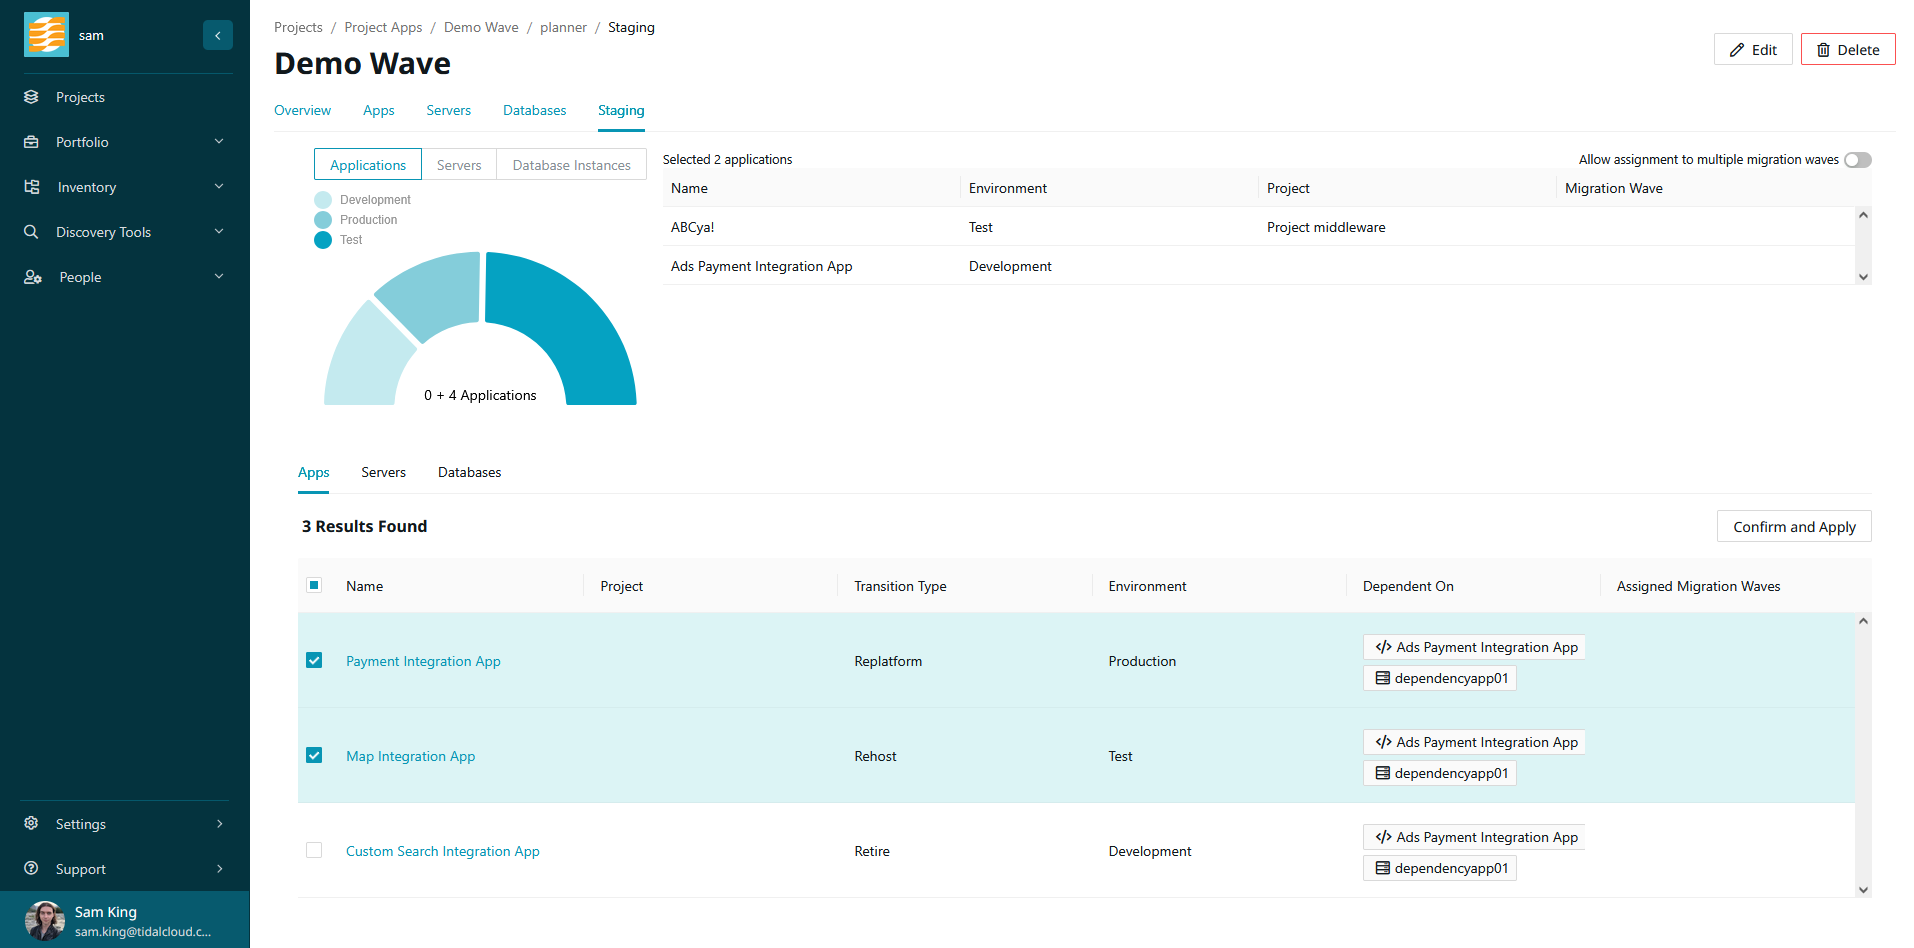
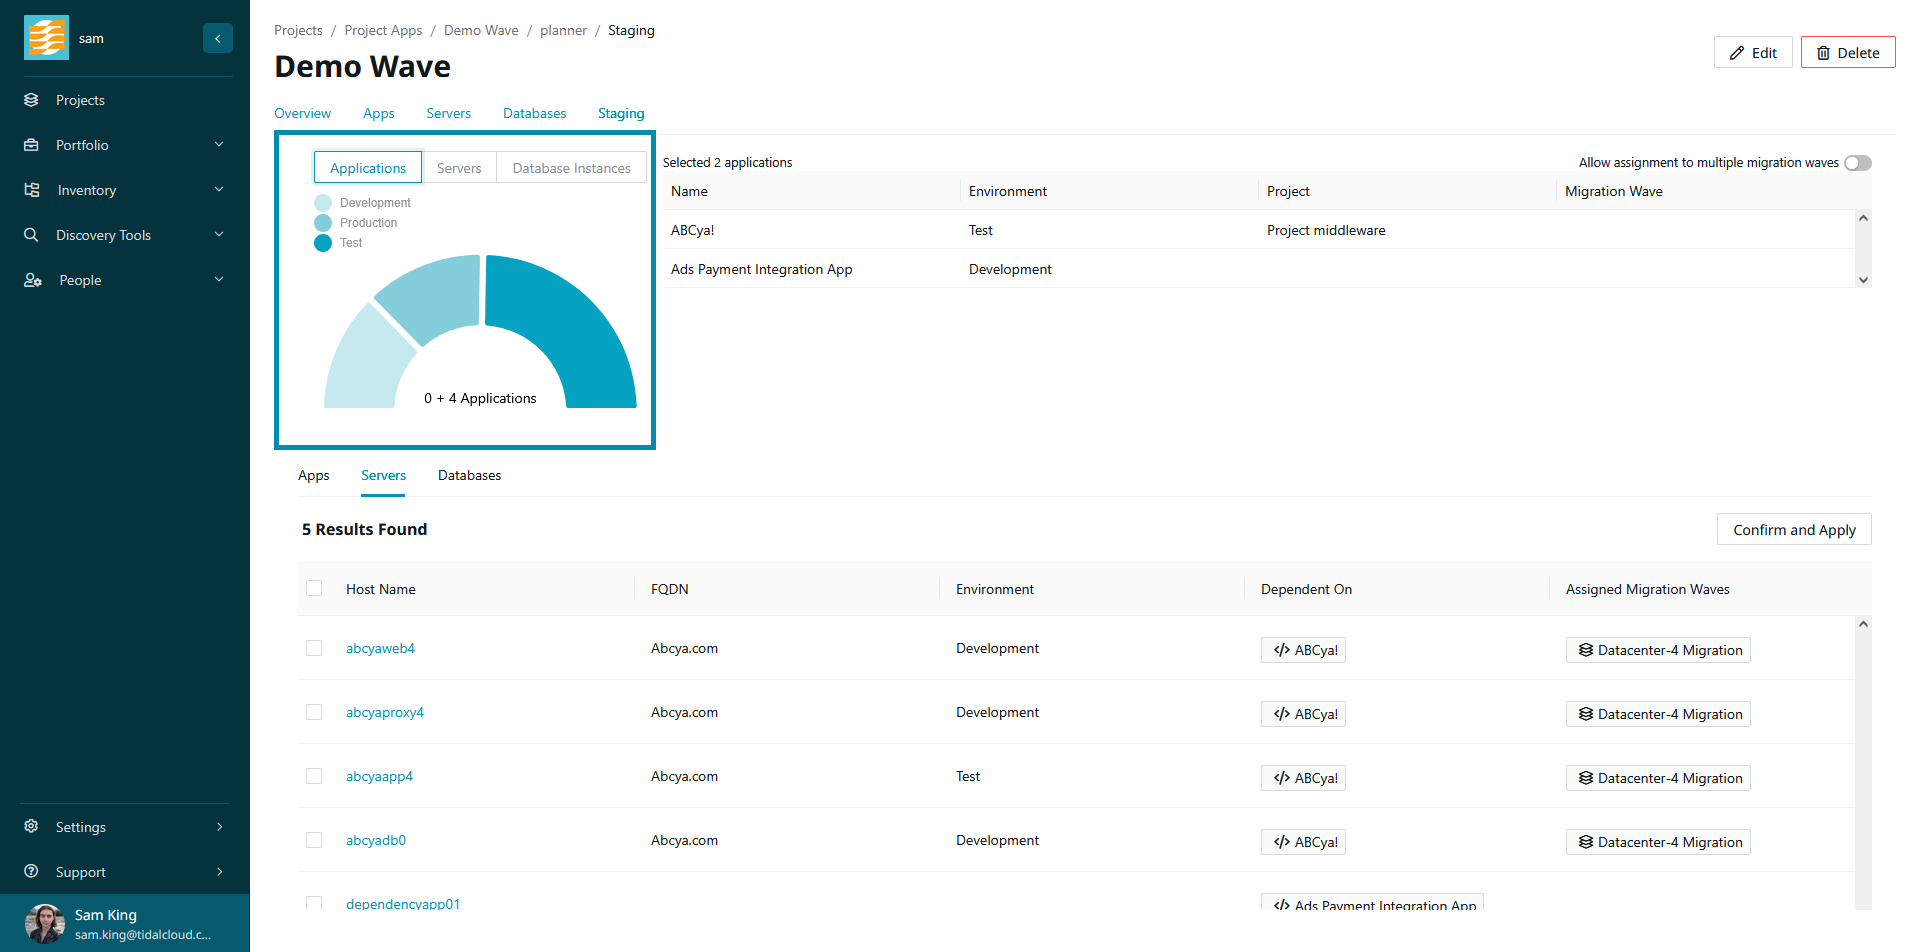
feat: added more detail to the migration planner section

diff --git a/pages/user guides/migration_waves.md b/pages/user guides/migration_waves.md
@@ -52,23 +52,28 @@ After clicking this button, you will be taking to a staging view. Here you can s
 {% include image.html file="migration-waves-5.png" %}
 <br/>
 
-The purpose of a migration wave is to allow you to define groups of resources which make logical sense to migrate together. for example - if you choose to migrate a given application, it makes sense to also include that application's servers and database instance in the same migration wave.
+The purpose of a migration wave is to allow you to define groups of resources which make logical sense to migrate together. for example - if you choose to migrate a given application, it makes sense to also include that application's servers and database instances in the same migration wave.
 
-On this page, you can see the dependant applications, servers and database instances of your staged resources. If required, you can use the table along the bottom of the page to add these dependant resources to the migration wave. The pie chart on the top left will be updated as you go, allowing you to see the breakdown of your wave by resource type and environment.
+That's why, in our migration planner, we've made it easy to discover related resources to the currently staged and previously committed records. The planner can be divided into three sections:
+
+1. Changes that are going to be made both with the currently staged items and the selected related resources. We display the total change to the migration wave by resource type and environment.
 
 {% include image.html file="migration-waves-6.png" %}
 <br/>
 
-By default, it is not possible to stage resources which are already in other migration waves. If you'd like to do this, there is a toggle on the top right of the page labelled 'Allow assignment to multiple migration waves'. 
-
-In most cases, having a record spread across multiple migration waves is unnecessary and confusing. However, there are cases when a record needs to be staged across multiple waves, so we give you the escape hatch through this button.
+2. A table displaying the parent resources which you initially selected. Here you'll also find a toggle which allows resources to be committed to multiple migration waves. By default, it is not possible to stage resources which are already in other migration waves. This is because in most cases, having a record spread across multiple migration waves is unnecessary and confusing. However, there are cases when a record needs to be staged across multiple waves, so we give you the escape hatch through this button.
 
 {% include image.html file="migration-waves-7.png" %}
 <br/>
 
-Once you have selected any dependant resources that you'd like to add to the migration wave, select "Confirm and Apply". You will be shown a confirmation message outlining the resources which you're about to add to the migration wave. If you are satisfied, click "OK". 
+3. Along the bottom of the page, you'll find a table where you can toggle across each primary record type and see all the dependant resources of the currently staged and previously committed records. This table will also explain why the resource was suggested, as seen in the "Dependent On" column.
 
 {% include image.html file="migration-waves-8.png" %}
+<br/>
+
+Once you have selected any dependant resources that you'd like to add to the migration wave, select "Confirm and Apply". You will be shown a confirmation message outlining the resources which you're about to add to the migration wave. If you are satisfied, click "OK". 
+
+{% include image.html file="migration-waves-9.png" %}
 <br/>
 
 You will now find that your selected resources have been added to the migration wave.
